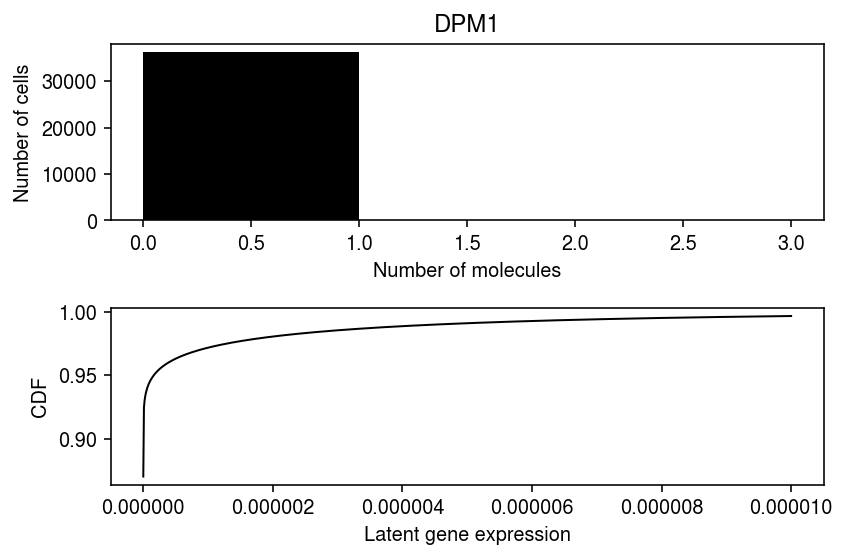
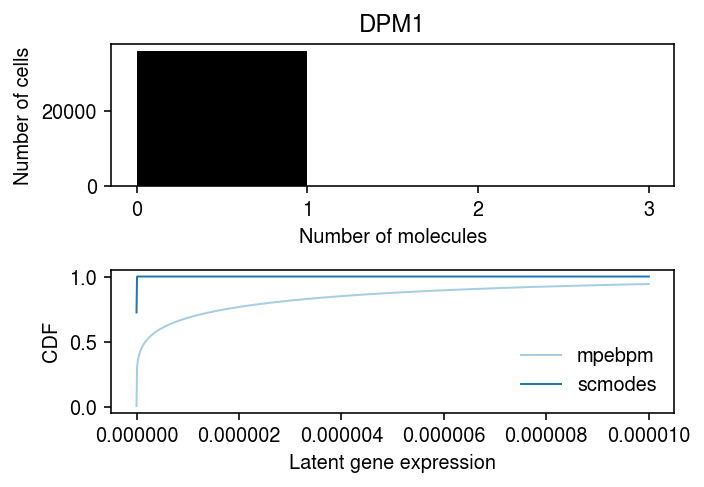
More analysis of HCA

diff --git a/docs/mpebpm.html b/docs/mpebpm.html
@@ -1,7 +1,7 @@
 <!DOCTYPE html>
 <html lang="en">
 <head>
-<!-- 2020-05-10 Sun 16:19 -->
+<!-- 2020-05-11 Mon 16:28 -->
 <meta charset="utf-8">
 <meta name="viewport" content="width=device-width, initial-scale=1">
 <title>Massively Parallel Empirical Bayes Poisson Means</title>
@@ -347,7 +347,7 @@ evaluate the method on simulations and large biological data sets.
 <h2 id="setup"><a id="org9626900"></a>Setup</h2>
 <div class="outline-text-2" id="text-setup">
 <pre class="example">
-Submitted batch job 1134311
+Submitted batch job 1162416
 
 </pre>
 
@@ -356,6 +356,7 @@ Submitted batch job 1134311
 <span class="org-keyword">import</span> loompy
 <span class="org-keyword">import</span> mpebpm
 <span class="org-keyword">import</span> numpy <span class="org-keyword">as</span> np
+<span class="org-keyword">import</span> os
 <span class="org-keyword">import</span> pandas <span class="org-keyword">as</span> pd
 <span class="org-keyword">import</span> scipy.sparse <span class="org-keyword">as</span> ss
 <span class="org-keyword">import</span> scipy.special <span class="org-keyword">as</span> sp
@@ -1196,8 +1197,8 @@ types/subtypes/states within each donor.
 </table>
 
 <p>
-To demonstrate the scalability of <code>mpebpm</code>, fit a Gamma distribution to each
-gene in each donor. We
+To demonstrate the scalability of <code>mpebpm</code>, fit a point-Gamma distribution
+to each gene in each donor, resulting in 254,432 EBPM problems. We
 <a href="https://aksarkar.github.io/singlecell-modes/immune-census.html#orgc2a066a">previously
 pre-processed the data</a> to <code>npz</code> format, which is much faster to read than
 <code>h5ad</code> or <code>loom</code>.
@@ -1233,25 +1234,26 @@ with 550918891 stored elements in Compressed Sparse Row format&gt;
 </pre>
 
 <p>
-Fit <code>mpebpm</code>, and report the time elapsed in minutes.
+Fit <code>mpebpm</code> (6 minutes/epoch).
 </p>
 
 <div class="org-src-container">
-<pre class="src src-ipython"><span class="org-variable-name">start</span> = time.time()
-<span class="org-variable-name">log_mu</span>, <span class="org-variable-name">neg_log_phi</span> = mpebpm.sgd.ebpm_gamma(y_csr, onehot=onehot, batch_size=64, lr=5e-2, max_epochs=10, shuffle=<span class="org-constant">True</span>)
-<span class="org-variable-name">elapsed</span> = time.time() - start
-elapsed / 60
+<pre class="src src-ipython"><span class="org-comment-delimiter"># </span><span class="org-comment">This converges quickly</span>
+<span class="org-variable-name">init</span> = mpebpm.sgd.ebpm_gamma(
+  y_csr, onehot=onehot, batch_size=128, lr=1e-2,
+  max_epochs=1, shuffle=<span class="org-constant">True</span>)
+<span class="org-variable-name">logdir</span> = <span class="org-string">'runs/mpebpm6'</span>
+os.mkdir(logdir)
+<span class="org-variable-name">log_mu</span>, <span class="org-variable-name">neg_log_phi</span>, <span class="org-variable-name">logodds</span> = mpebpm.sgd.ebpm_point_gamma(
+  y_csr, onehot=onehot, init=init, batch_size=128, lr=1e-2,
+  max_epochs=5, shuffle=<span class="org-constant">True</span>, logdir=logdir)
 </pre>
 </div>
-
-<pre class="example">
-58.272460337479906
-
-</pre>
 
 <div class="org-src-container">
 <pre class="src src-ipython">pd.DataFrame(log_mu, index=donor.unique(), columns=genes[<span class="org-string">'featurekey'</span>]).to_csv(<span class="org-string">'/scratch/midway2/aksarkar/ideas/mpebpm-immune-census-log-mu.txt.gz'</span>, sep=<span class="org-string">'\t'</span>)
 pd.DataFrame(neg_log_phi, index=donor.unique(), columns=genes[<span class="org-string">'featurekey'</span>]).to_csv(<span class="org-string">'/scratch/midway2/aksarkar/ideas/mpebpm-immune-census-neg-log-phi.txt.gz'</span>, sep=<span class="org-string">'\t'</span>)
+pd.DataFrame(logodds, index=donor.unique(), columns=genes[<span class="org-string">'featurekey'</span>]).to_csv(<span class="org-string">'/scratch/midway2/aksarkar/ideas/mpebpm-immune-census-logodds.txt.gz'</span>, sep=<span class="org-string">'\t'</span>)
 </pre>
 </div>
 
@@ -1262,6 +1264,7 @@ Read the estimated parameters.
 <div class="org-src-container">
 <pre class="src src-ipython"><span class="org-variable-name">log_mu</span> = pd.read_csv(<span class="org-string">'/scratch/midway2/aksarkar/ideas/mpebpm-immune-census-log-mu.txt.gz'</span>, sep=<span class="org-string">'\t'</span>, index_col=0)
 <span class="org-variable-name">neg_log_phi</span> = pd.read_csv(<span class="org-string">'/scratch/midway2/aksarkar/ideas/mpebpm-immune-census-neg-log-phi.txt.gz'</span>, sep=<span class="org-string">'\t'</span>, index_col=0)
+<span class="org-variable-name">logodds</span> = pd.read_csv(<span class="org-string">'/scratch/midway2/aksarkar/ideas/mpebpm-immune-census-logodds.txt.gz'</span>, sep=<span class="org-string">'\t'</span>, index_col=0)
 </pre>
 </div>
 
@@ -1275,28 +1278,23 @@ Test each donor-gene combination for goodness-of-fit to the
 <span class="org-keyword">for</span> j <span class="org-keyword">in</span> <span class="org-builtin">range</span>(y_csr.shape[1]):
   <span class="org-variable-name">query</span> = y_csc[:,j].tocsr()
   <span class="org-keyword">for</span> k, name <span class="org-keyword">in</span> <span class="org-builtin">enumerate</span>(donor.unique()):
+    <span class="org-comment-delimiter"># </span><span class="org-comment">Important: scqtl.diagnostic blows up memory for some reason</span>
     <span class="org-variable-name">idx</span> = onehot[:,k].tocsc().indices
-    <span class="org-variable-name">N</span> = idx.shape[0]
-    <span class="org-variable-name">x</span> = query[idx].A.ravel()
-    <span class="org-variable-name">n</span> = np.exp(-neg_log_phi.iloc[k,j])
-    <span class="org-variable-name">p</span> = 1 / (1 + s[idx] * np.exp(log_mu.iloc[k,j] - neg_log_phi.iloc[k,j]))         
-    <span class="org-variable-name">F</span> = st.nbinom(n=n, p=p)
-    <span class="org-variable-name">Fx_1</span> = F.cdf(x - 1)
-    <span class="org-variable-name">fx</span> = F.pmf(x)
-    <span class="org-variable-name">u</span> = np.random.uniform(size=N)
-    <span class="org-variable-name">d</span>, <span class="org-variable-name">p</span> = st.kstest(Fx_1 + u * fx, <span class="org-string">'uniform'</span>)
+    <span class="org-variable-name">d</span>, <span class="org-variable-name">p</span> = scmodes.benchmark.gof._gof(
+       query[idx].A.ravel(),
+       cdf=scmodes.benchmark.gof._zig_cdf,
+       pmf=scmodes.benchmark.gof._zig_pmf,
+       size=s[idx],
+       log_mu=log_mu.iloc[k,j],
+       log_phi=-neg_log_phi.iloc[k,j],
+       logodds=logodds.iloc[k,j])
     result[(name, genes.iloc[j][<span class="org-string">'Gene'</span>])] = pd.Series({<span class="org-string">'stat'</span>: d, <span class="org-string">'p'</span>: p})
-
 <span class="org-variable-name">result</span> = pd.DataFrame.from_dict(result, orient=<span class="org-string">'index'</span>)
 <span class="org-variable-name">result.index.names</span> = [<span class="org-string">'donor'</span>, <span class="org-string">'gene'</span>]
 <span class="org-variable-name">result</span> = result.reset_index()
 result.to_csv(<span class="org-string">'/scratch/midway2/aksarkar/ideas/mpebpm-immune-census-gof.txt.gz'</span>, sep=<span class="org-string">'\t'</span>)
 </pre>
 </div>
-
-<p>
-0 - f7b0b12b-5d22-40a0-9aa3-e088b9762317
-</p>
 
 <p>
 Plot the histogram of GOF \(p\)-values.
@@ -1315,7 +1313,7 @@ plt.tight_layout()
 
 
 <div class="figure">
-<p><img src="figure/mpebpm.org/immune-census-gof.png" alt="immune-census-gof.png">
+<p><img src="figure/mpebpm.org/mpebpm-immune-census-gof.png" alt="mpebpm-immune-census-gof.png">
 </p>
 </div>
 
@@ -1324,25 +1322,106 @@ Look at an example.
 </p>
 
 <div class="org-src-container">
-<pre class="src src-ipython">plt.clf()
-<span class="org-variable-name">fig</span>, <span class="org-variable-name">ax</span> = plt.subplots(2, 1)
-
-<span class="org-variable-name">j</span> = 1
+<pre class="src src-ipython"><span class="org-variable-name">j</span> = 1
 <span class="org-variable-name">k</span> = 0
 <span class="org-variable-name">query</span> = y_csc[:,k].tocsr()
 <span class="org-variable-name">idx</span> = onehot[:,j].tocsc().indices
 <span class="org-variable-name">x</span> = query[idx].A.ravel()
-ax[0].hist(x, bins=np.arange(x.<span class="org-builtin">max</span>() + 2), color=<span class="org-string">'k'</span>)
+</pre>
+</div>
+
+<div class="org-src-container">
+<pre class="src src-ipython">scmodes.benchmark.gof._gof(
+  x, 
+  cdf=scmodes.benchmark.gof._zig_cdf,
+  pmf=scmodes.benchmark.gof._zig_pmf,
+  size=s[idx],
+  log_mu=init[0][k,j],
+  log_phi=-init[1][k,j],)
+</pre>
+</div>
+
+<pre class="example">
+KstestResult(statistic=0.14346460385738558, pvalue=0.0)
+
+</pre>
+
+
+<div class="org-src-container">
+<pre class="src src-ipython">scmodes.benchmark.gof._gof(
+  x, 
+  cdf=scmodes.benchmark.gof._zig_cdf,
+  pmf=scmodes.benchmark.gof._zig_pmf,
+  size=s[idx],
+  log_mu=log_mu.iloc[k,j],
+  log_phi=-neg_log_phi.iloc[k,j],
+  logodds=logodds.iloc[k,j])
+</pre>
+</div>
+
+<pre class="example">
+KstestResult(statistic=0.13278115317033756, pvalue=0.0)
+
+</pre>
+
+<div class="org-src-container">
+<pre class="src src-ipython"><span class="org-variable-name">res1</span> = scmodes.ebpm.ebpm_point_gamma(x, s[idx].ravel())
+scmodes.benchmark.gof._gof(
+  x, 
+  cdf=scmodes.benchmark.gof._zig_cdf,
+  pmf=scmodes.benchmark.gof._zig_pmf,
+  size=s[idx],
+  log_mu=res1[0],
+  log_phi=-res1[1],
+  logodds=res1[2])
+</pre>
+</div>
+
+<pre class="example">
+KstestResult(statistic=0.006399062002559908, pvalue=0.1017356159621166)
+
+</pre>
+
+<p>
+Compare the negative log likelihood for this gene in this individual.
+</p>
+
+<div class="org-src-container">
+<pre class="src src-ipython">pd.Series({<span class="org-string">'scmodes'</span>: scmodes.ebpm.wrappers._zinb_obj(res1[:-1], x, s[idx]),
+           <span class="org-string">'mpebpm'</span>: scmodes.ebpm.wrappers._zinb_obj([log_mu.iloc[k,j], neg_log_phi.iloc[k,j], logodds.iloc[k,j]], x, s[idx])})
+</pre>
+</div>
+
+<pre class="example">
+scmodes     858.372281
+mpebpm     7139.640261
+dtype: float64
+</pre>
+
+<div class="org-src-container">
+<pre class="src src-ipython"><span class="org-variable-name">cm</span> = plt.get_cmap(<span class="org-string">'Paired'</span>)
+plt.clf()
+<span class="org-variable-name">fig</span>, <span class="org-variable-name">ax</span> = plt.subplots(2, 1)
+fig.set_size_inches(5, 3.5)
+
+<span class="org-variable-name">grid</span> = np.arange(x.<span class="org-builtin">max</span>() + 2)
+ax[0].hist(x, bins=grid, color=<span class="org-string">'k'</span>)
+ax[0].set_xticks(grid)
 ax[0].set_xlabel(<span class="org-string">'Number of molecules'</span>)
 ax[0].set_ylabel(<span class="org-string">'Number of cells'</span>)
 ax[0].set_title(genes.iloc[1][<span class="org-string">'Gene'</span>])
 
 <span class="org-variable-name">grid</span> = np.linspace(0, 1e-5, 1000)
-<span class="org-variable-name">pi0</span> = sp.expit(-logodds.iloc[k,j])
+<span class="org-variable-name">pi0</span> = sp.expit(logodds.iloc[k,j])
 <span class="org-variable-name">F</span> = pi0 + (1 - pi0) * st.gamma(a=np.exp(-neg_log_phi.iloc[k,j]), scale=np.exp(log_mu.iloc[k,j] - neg_log_phi.iloc[k,j])).cdf(grid)
-ax[1].plot(grid, F, c=<span class="org-string">'k'</span>, lw=1)
+ax[1].plot(grid, F, c=cm(0), lw=1, label=<span class="org-string">'mpebpm'</span>)
+
+<span class="org-variable-name">pi0</span> = sp.expit(res1[2])
+<span class="org-variable-name">F</span> = pi0 + (1 - pi0) * st.gamma(a=np.exp(-res1[1]), scale=np.exp(res1[0] - res1[1])).cdf(grid)
+ax[1].plot(grid, F, c=cm(1), lw=1, label=<span class="org-string">'scmodes'</span>)
 ax[1].set_xlabel(<span class="org-string">'Latent gene expression'</span>)
 ax[1].set_ylabel(<span class="org-string">'CDF'</span>)
+ax[1].legend(frameon=<span class="org-constant">False</span>)
 fig.tight_layout()
 </pre>
 </div>
@@ -1352,40 +1431,13 @@ fig.tight_layout()
 <p><img src="figure/mpebpm.org/ic-dpm1.png" alt="ic-dpm1.png">
 </p>
 </div>
-
-<p>
-Fit just this gene.
-</p>
-
-<div class="org-src-container">
-<pre class="src src-ipython">scmodes.ebpm.ebpm_point_gamma(x, s[idx].ravel())
-</pre>
-</div>
-
-<pre class="example">
-(-12.289583305728296,
-14.014278232411597,
-0.9672324267648861,
--857.9082245516674)
-</pre>
-
-
-<div class="org-src-container">
-<pre class="src src-ipython">log_mu.iloc[k,j], neg_log_phi.iloc[k,j], logodds.iloc[k,j]
-</pre>
-</div>
-
-<pre class="example">
-(-9.686181, 1.9767971999999998, -1.9064716)
-
-</pre>
 </div>
 </div>
 </div>
 </div>
 <div id="postamble" class="status">
 <p class="author">Author: Abhishek Sarkar</p>
-<p class="date">Created: 2020-05-10 Sun 16:19</p>
+<p class="date">Created: 2020-05-11 Mon 16:28</p>
 <p class="validation"><a href="http://validator.w3.org/check?uri=referer">Validate</a></p>
 </div>
 </body>
